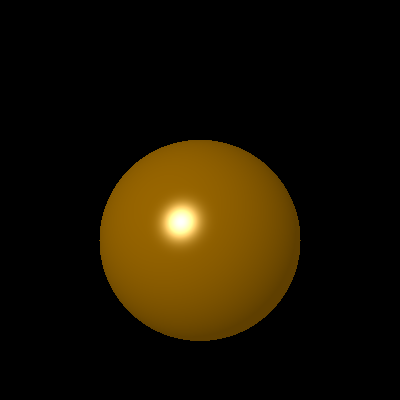
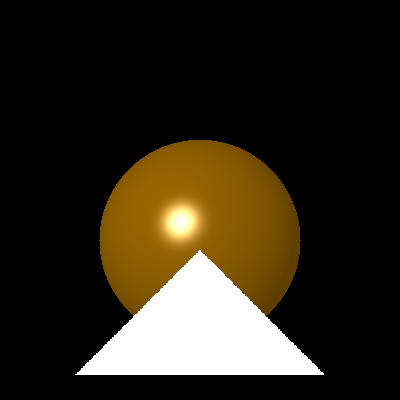
triangle working in white only

Changed region(s): [[0.18, 0.63, 0.81, 0.96]]

diff --git a/3/raytracerframework_cpp/Code/shapes/triangle.cpp b/3/raytracerframework_cpp/Code/shapes/triangle.cpp
@@ -5,7 +5,35 @@
 using namespace std;
 
 Hit Triangle::intersect(Ray const &ray) {
-    return Hit::NO_HIT();
+    //MT algorithm
+    double u, v;
+    Vector AB = pointB - pointA;
+    Vector AC = pointC - pointA;
+    Vector pV = ray.D.cross(AC);
+    double det = AB.dot(pV);
+    
+    if (det < 0) {
+        return Hit::NO_HIT();
+    }
+
+    double invDet = 1 / det;
+    Vector tV = ray.O - pointA;
+
+    u = tV.dot(pV) * invDet;
+    if (u < 0 || u > 1) {
+        return Hit::NO_HIT();
+    }
+
+    Vector qV = tV.cross(AB);
+    v = ray.D.dot(qV) * invDet;
+
+    if (v < 0 || u + v > 1) {
+        return Hit::NO_HIT();
+    }
+
+    double t = AC.dot(qV) * invDet;
+
+    return Hit(t, AB.cross(AC));
 }
 
 
